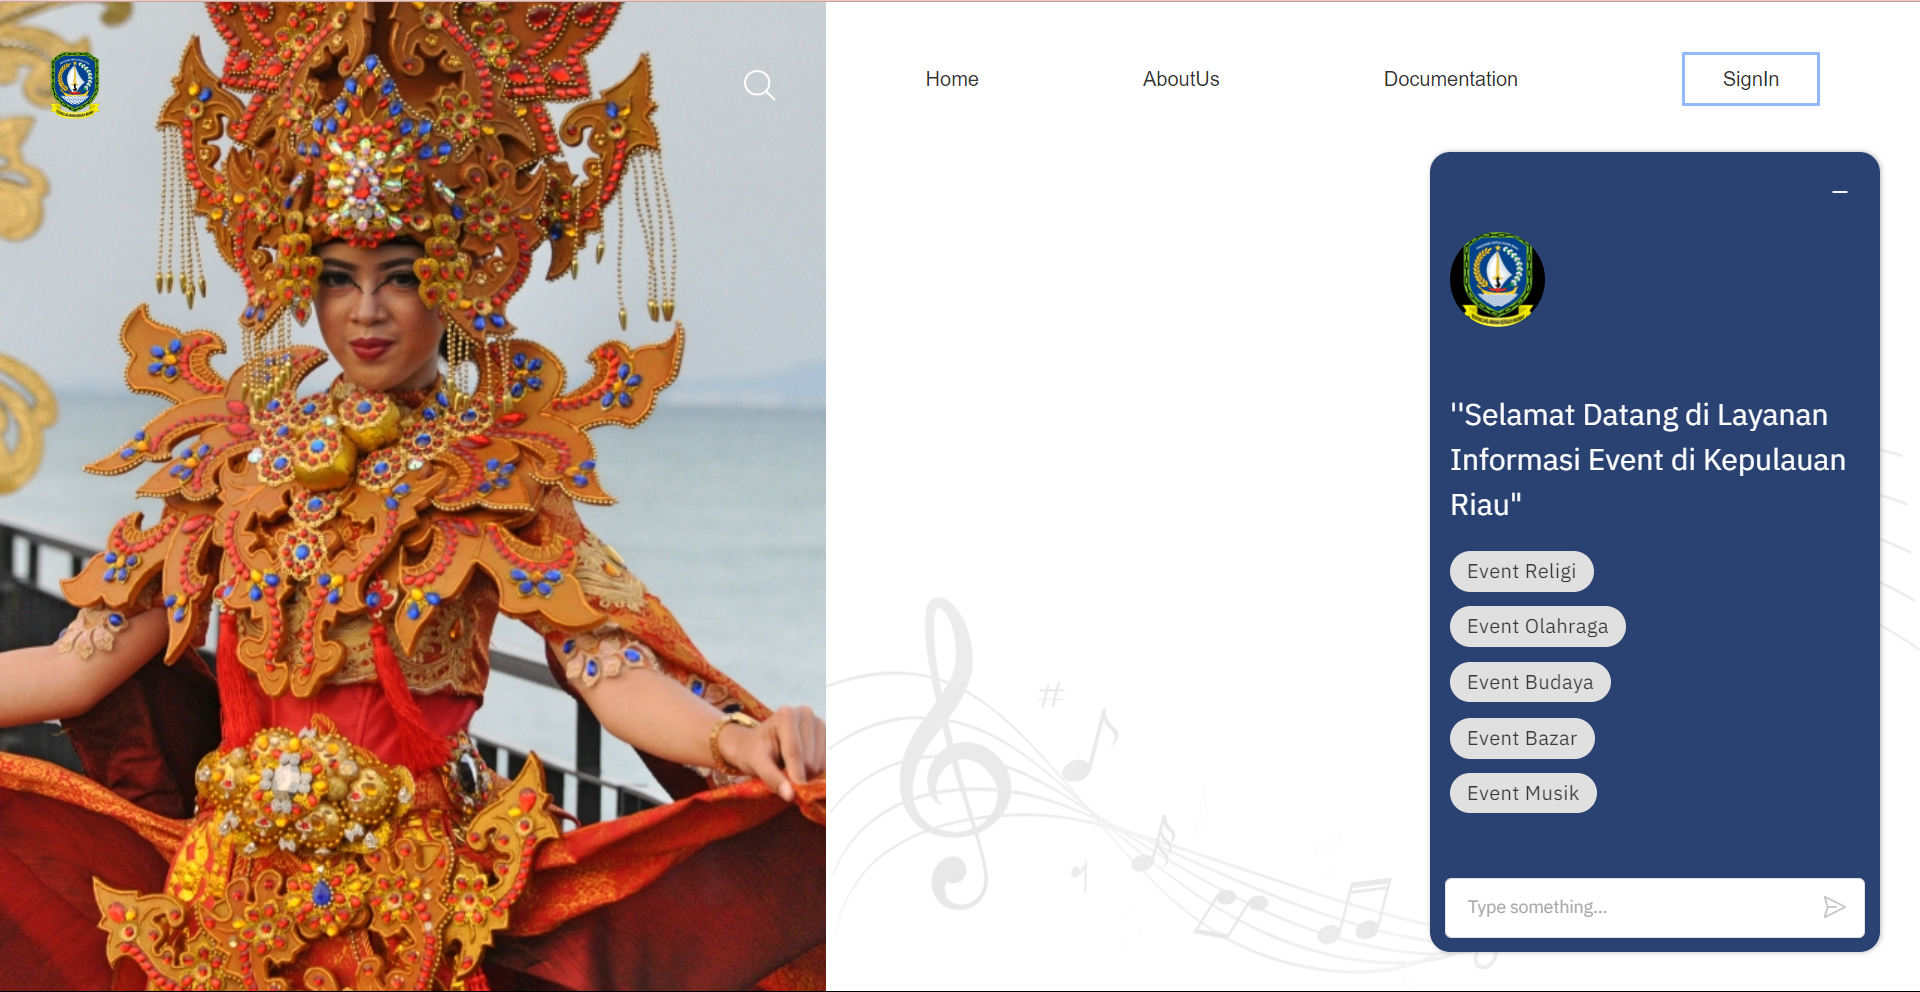
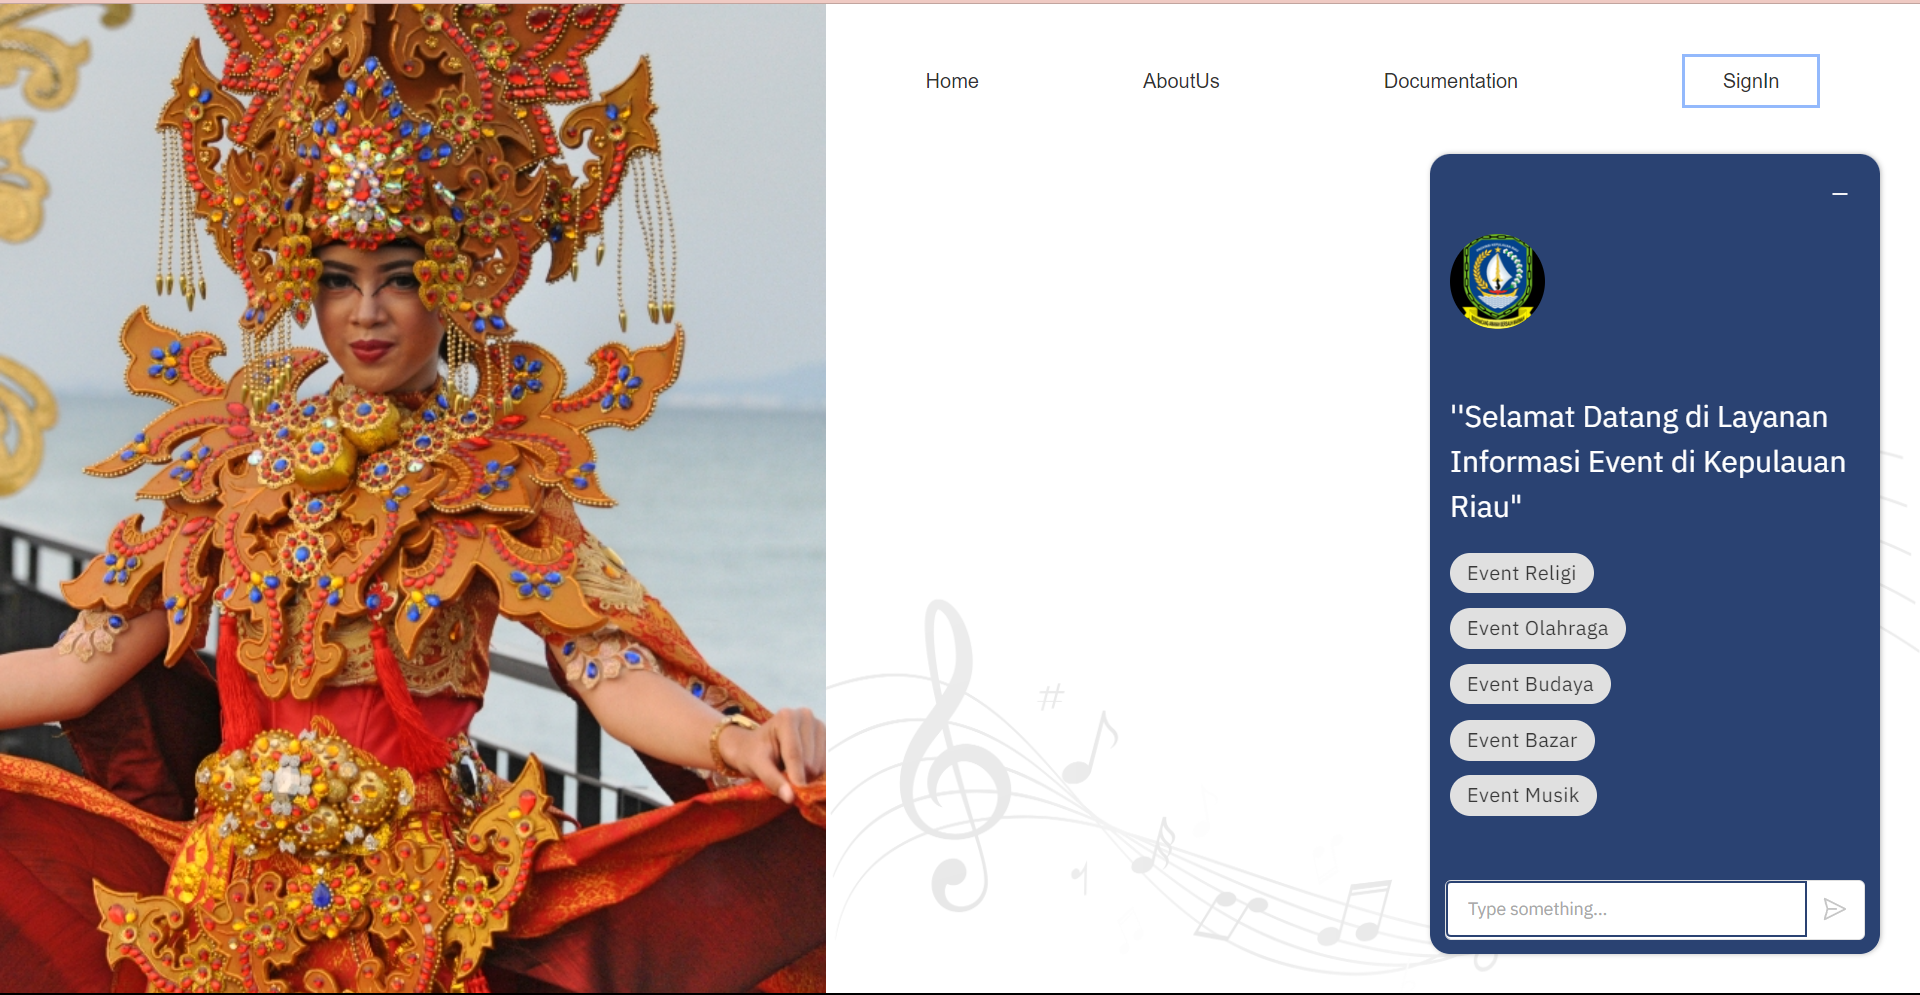
firstcommit

diff --git a/index.html b/index.html
@@ -8,11 +8,6 @@
 <body>
     <div class="header">
     <div class="col-1">
-        <div class="nav">
-            <img src="images/logoo.png" class="logo">
-            <img src="images/search.png" class="search-icon">
-        </div>
-        
         </div>
     <div class="col-2">
       <ul>
